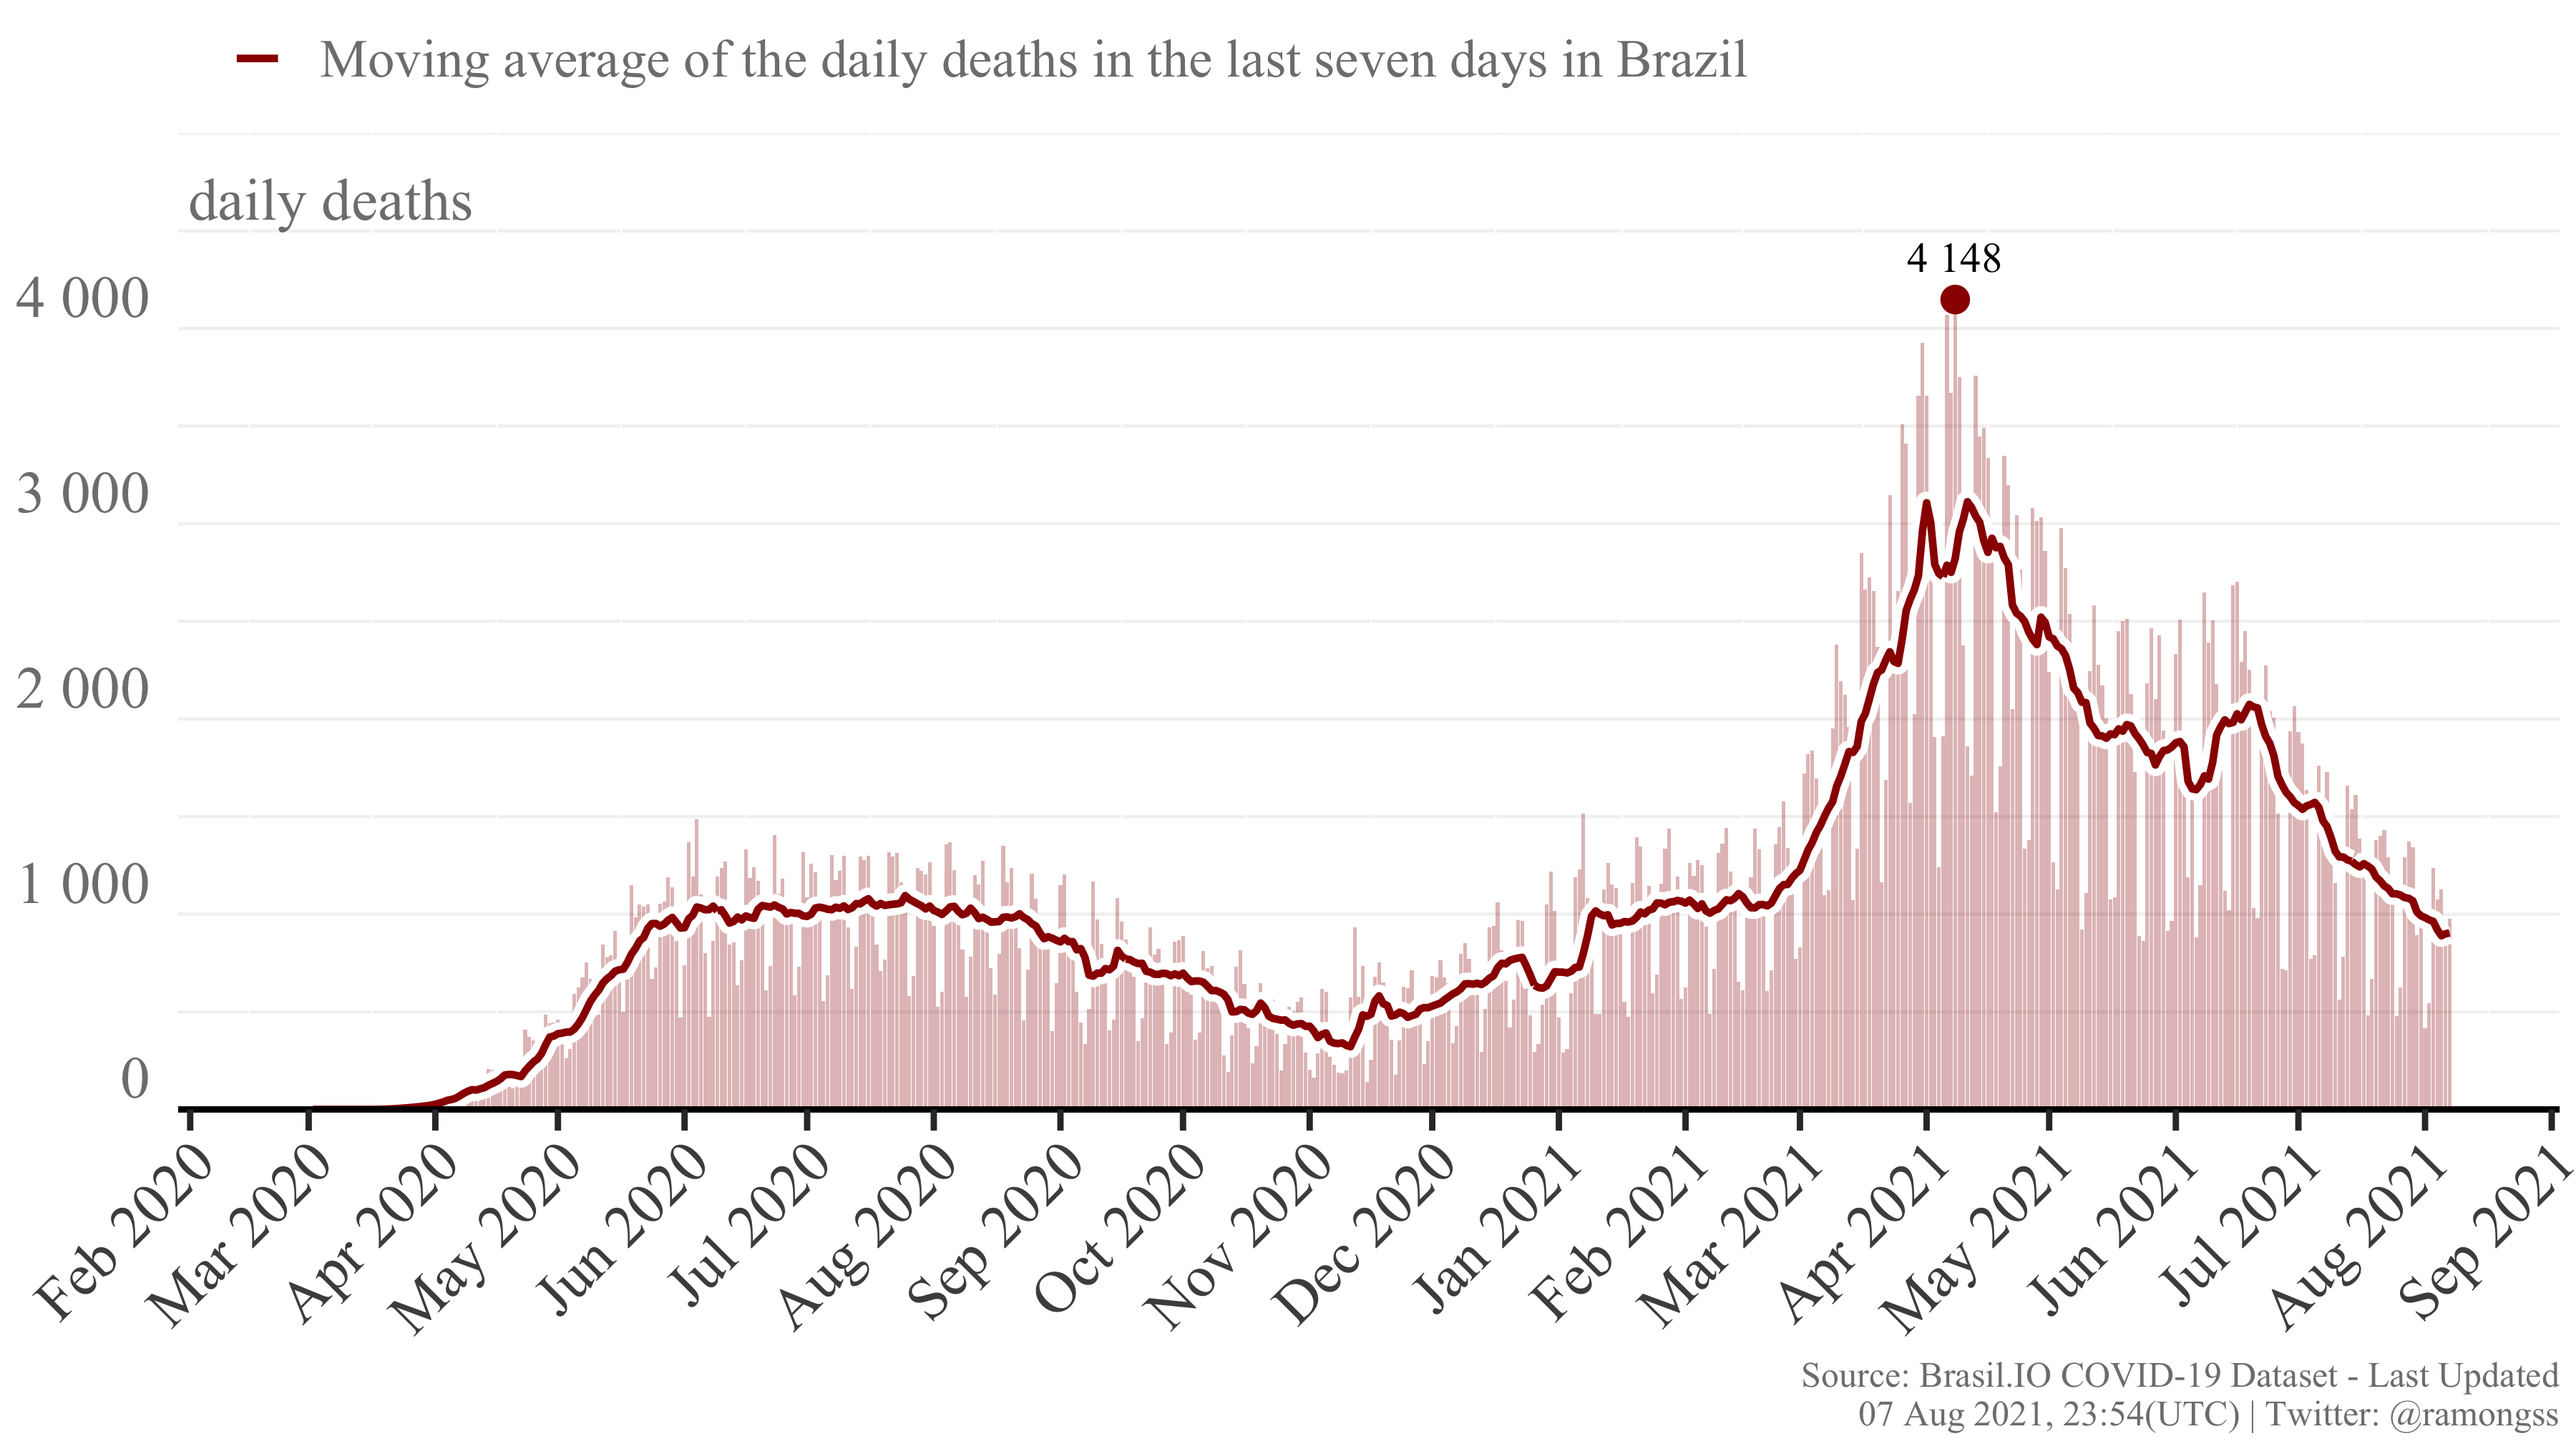
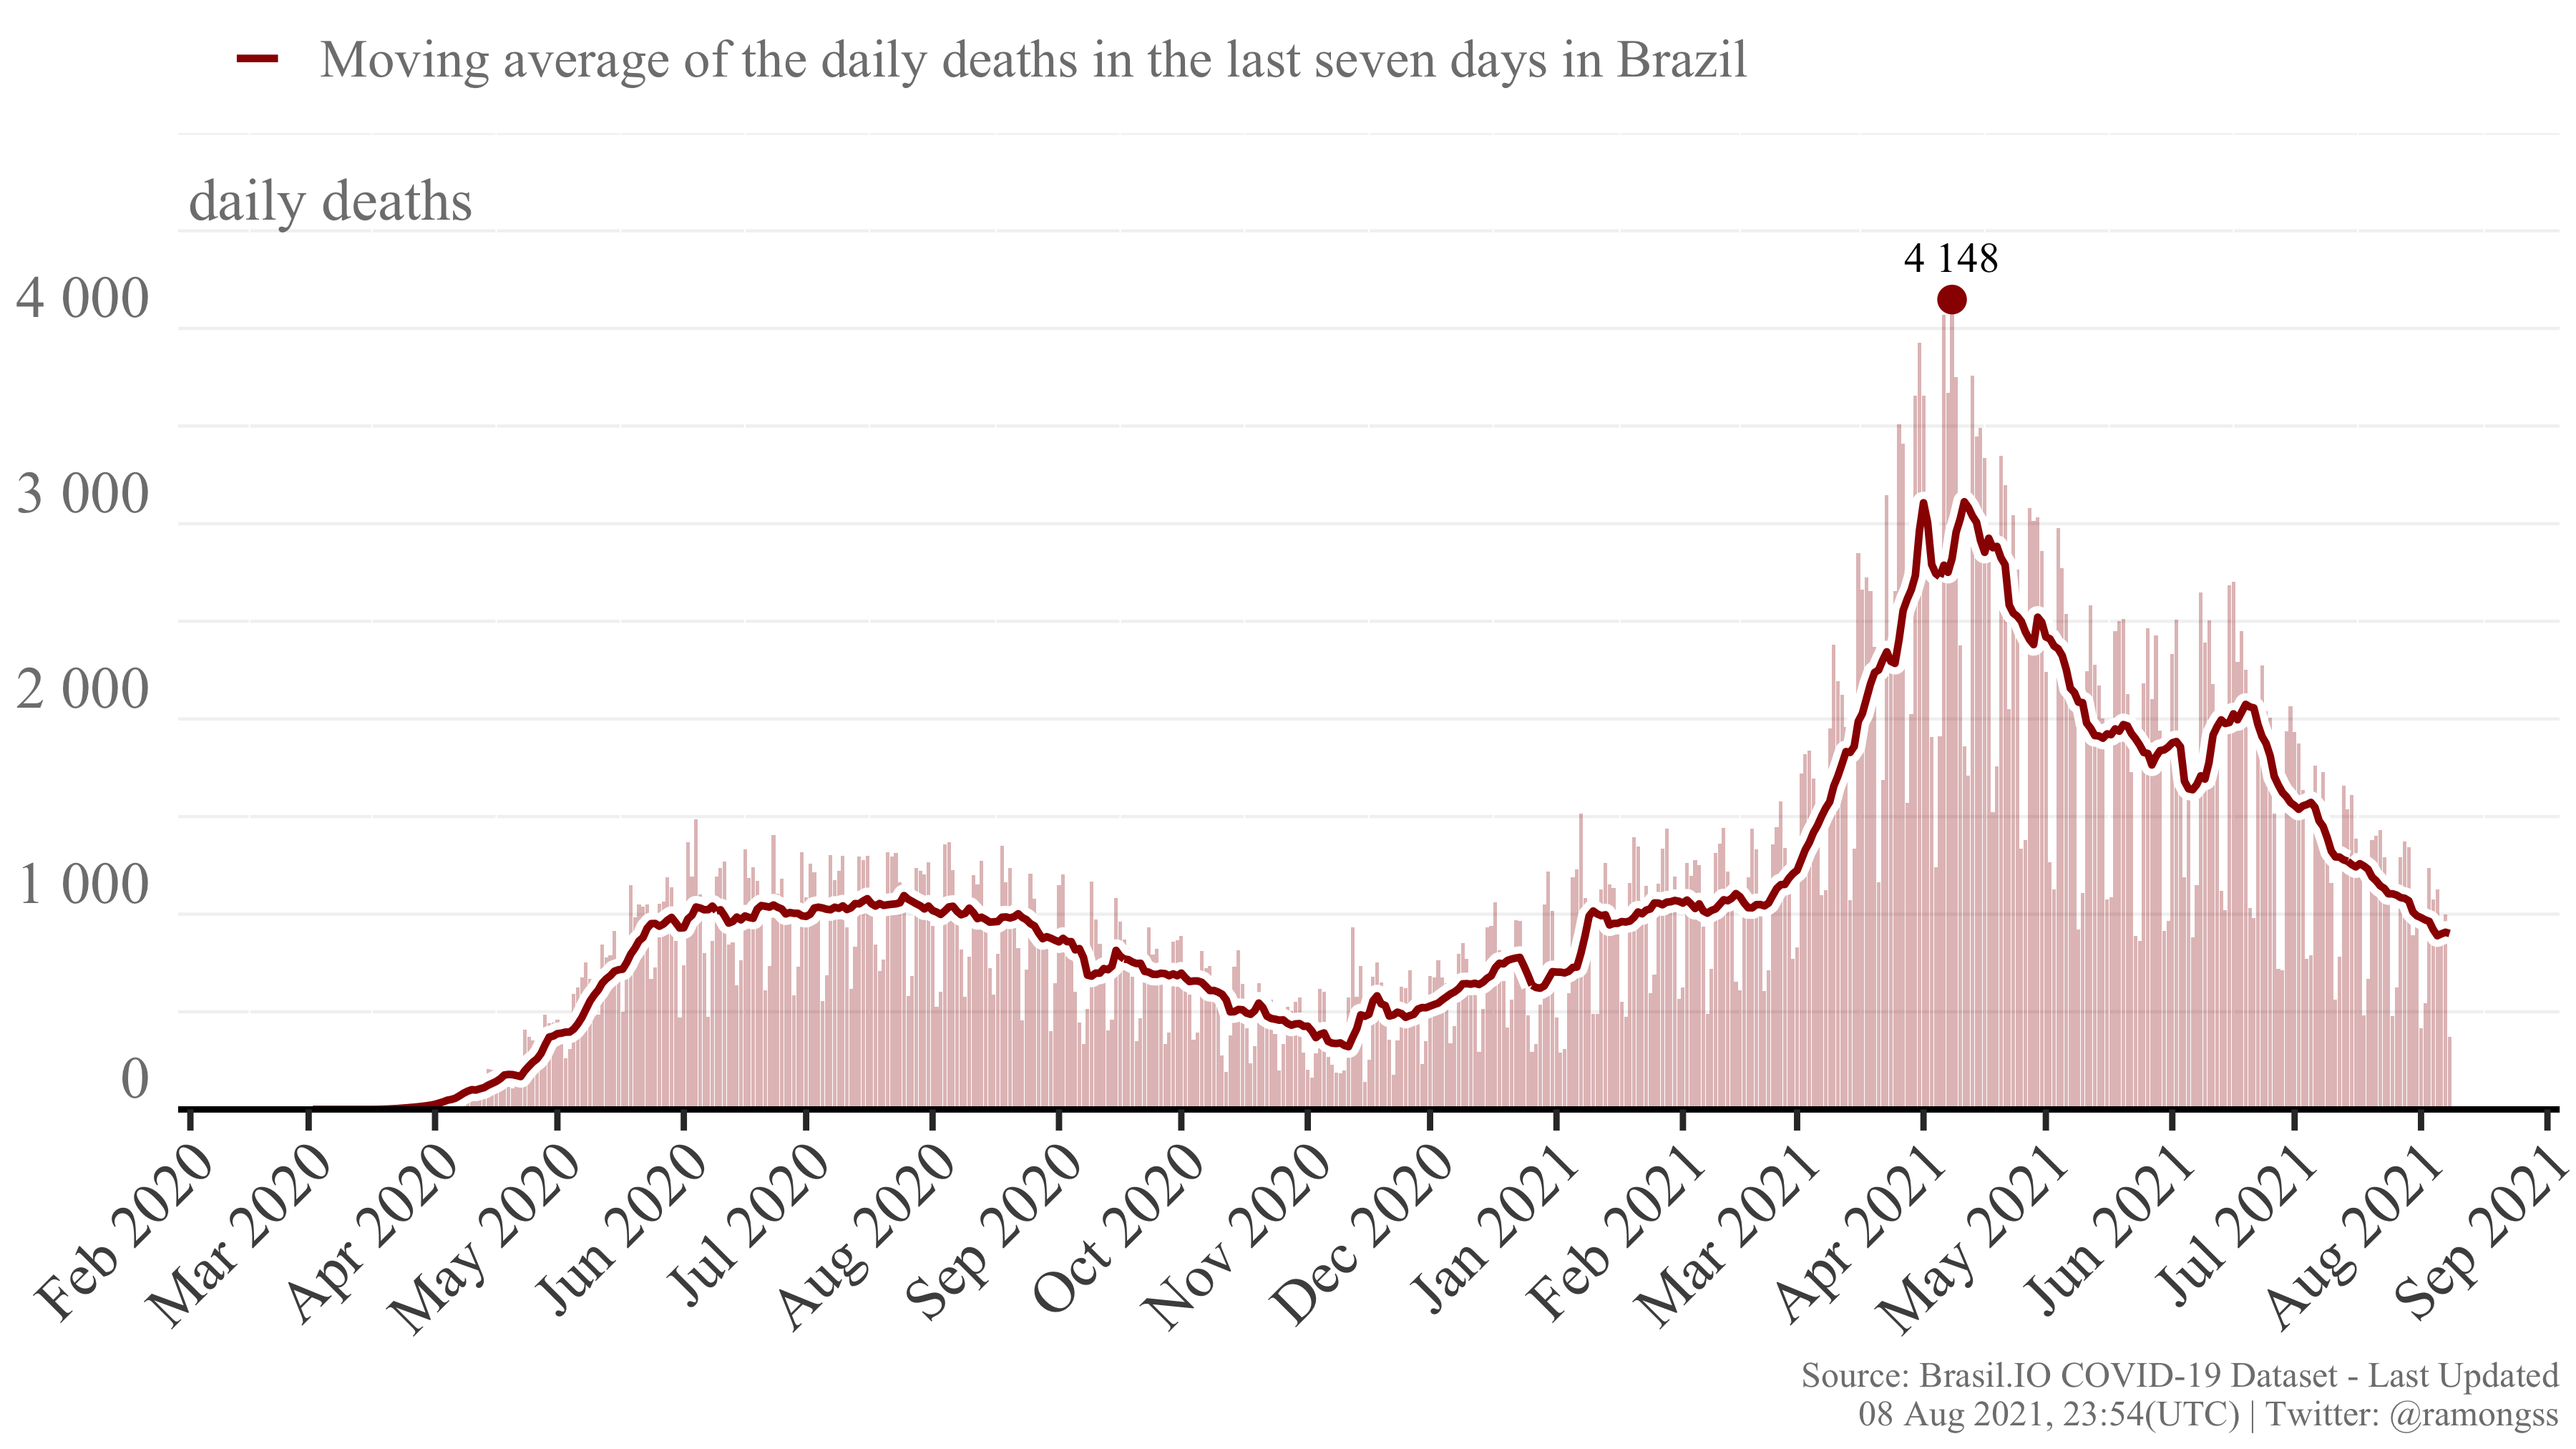
Re-build README.Rmd

diff --git a/README.md b/README.md
@@ -27,8 +27,8 @@ download_brasilio_table <- function(dataset = "covid19", table_name){
 
 ## COVID-19 Confirmed cases
 
-Currently, Brazil has a total of **20,155,326** confirmed cases at **07
-Aug, 2021**, with **38,764** new confirmed cases. The daily maximum
+Currently, Brazil has a total of **20,169,138** confirmed cases at **08
+Aug, 2021**, with **13,043** new confirmed cases. The daily maximum
 incidence was **124,248** confirmed cases at **22 Jun, 2021**. Here
 follows the Figure showing the confirmed case incidence as the bars, and
 the line as the moving average of the last 7 days.
@@ -37,8 +37,8 @@ the line as the moving average of the last 7 days.
 
 ## COVID-19 Deaths
 
-Currently, Brazil has a total of **563,006** deaths at **07 Aug, 2021**,
-with **977** new deaths. The daily maximum deaths incidence was
+Currently, Brazil has a total of **563,398** deaths at **08 Aug, 2021**,
+with **370** new deaths. The daily maximum deaths incidence was
 **4,148** deaths at **08 Apr, 2021**. Here follows the Figure showing
 the deaths incidence as the bars, and the line as the moving average of
 the last 7 days.
@@ -49,4 +49,4 @@ the last 7 days.
 
 This page is daily updated automatically using Github Actions.
 
-*Last update: 07 Aug 2021, 23:55 (UTC).*
+*Last update: 08 Aug 2021, 23:54 (UTC).*
